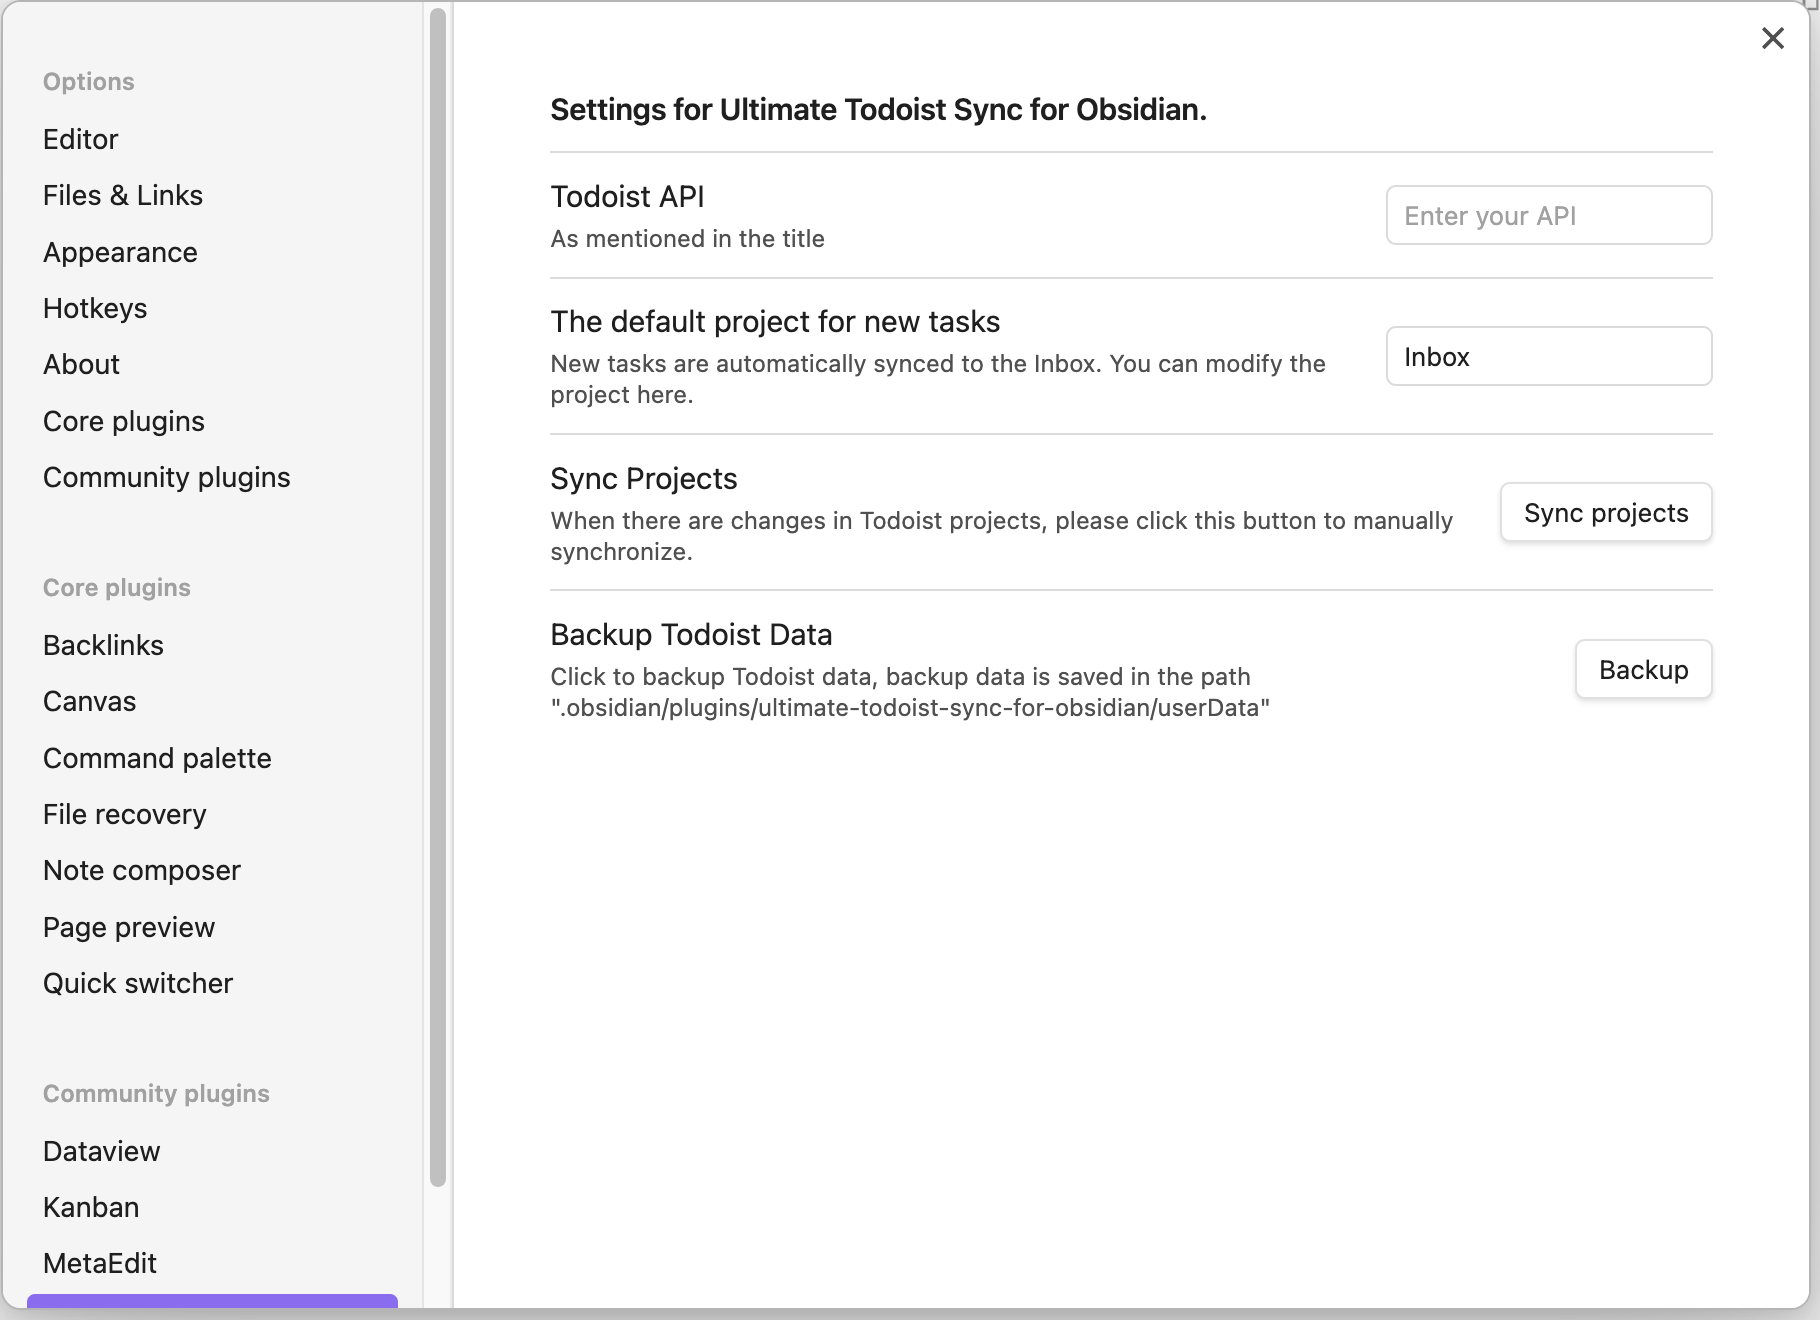
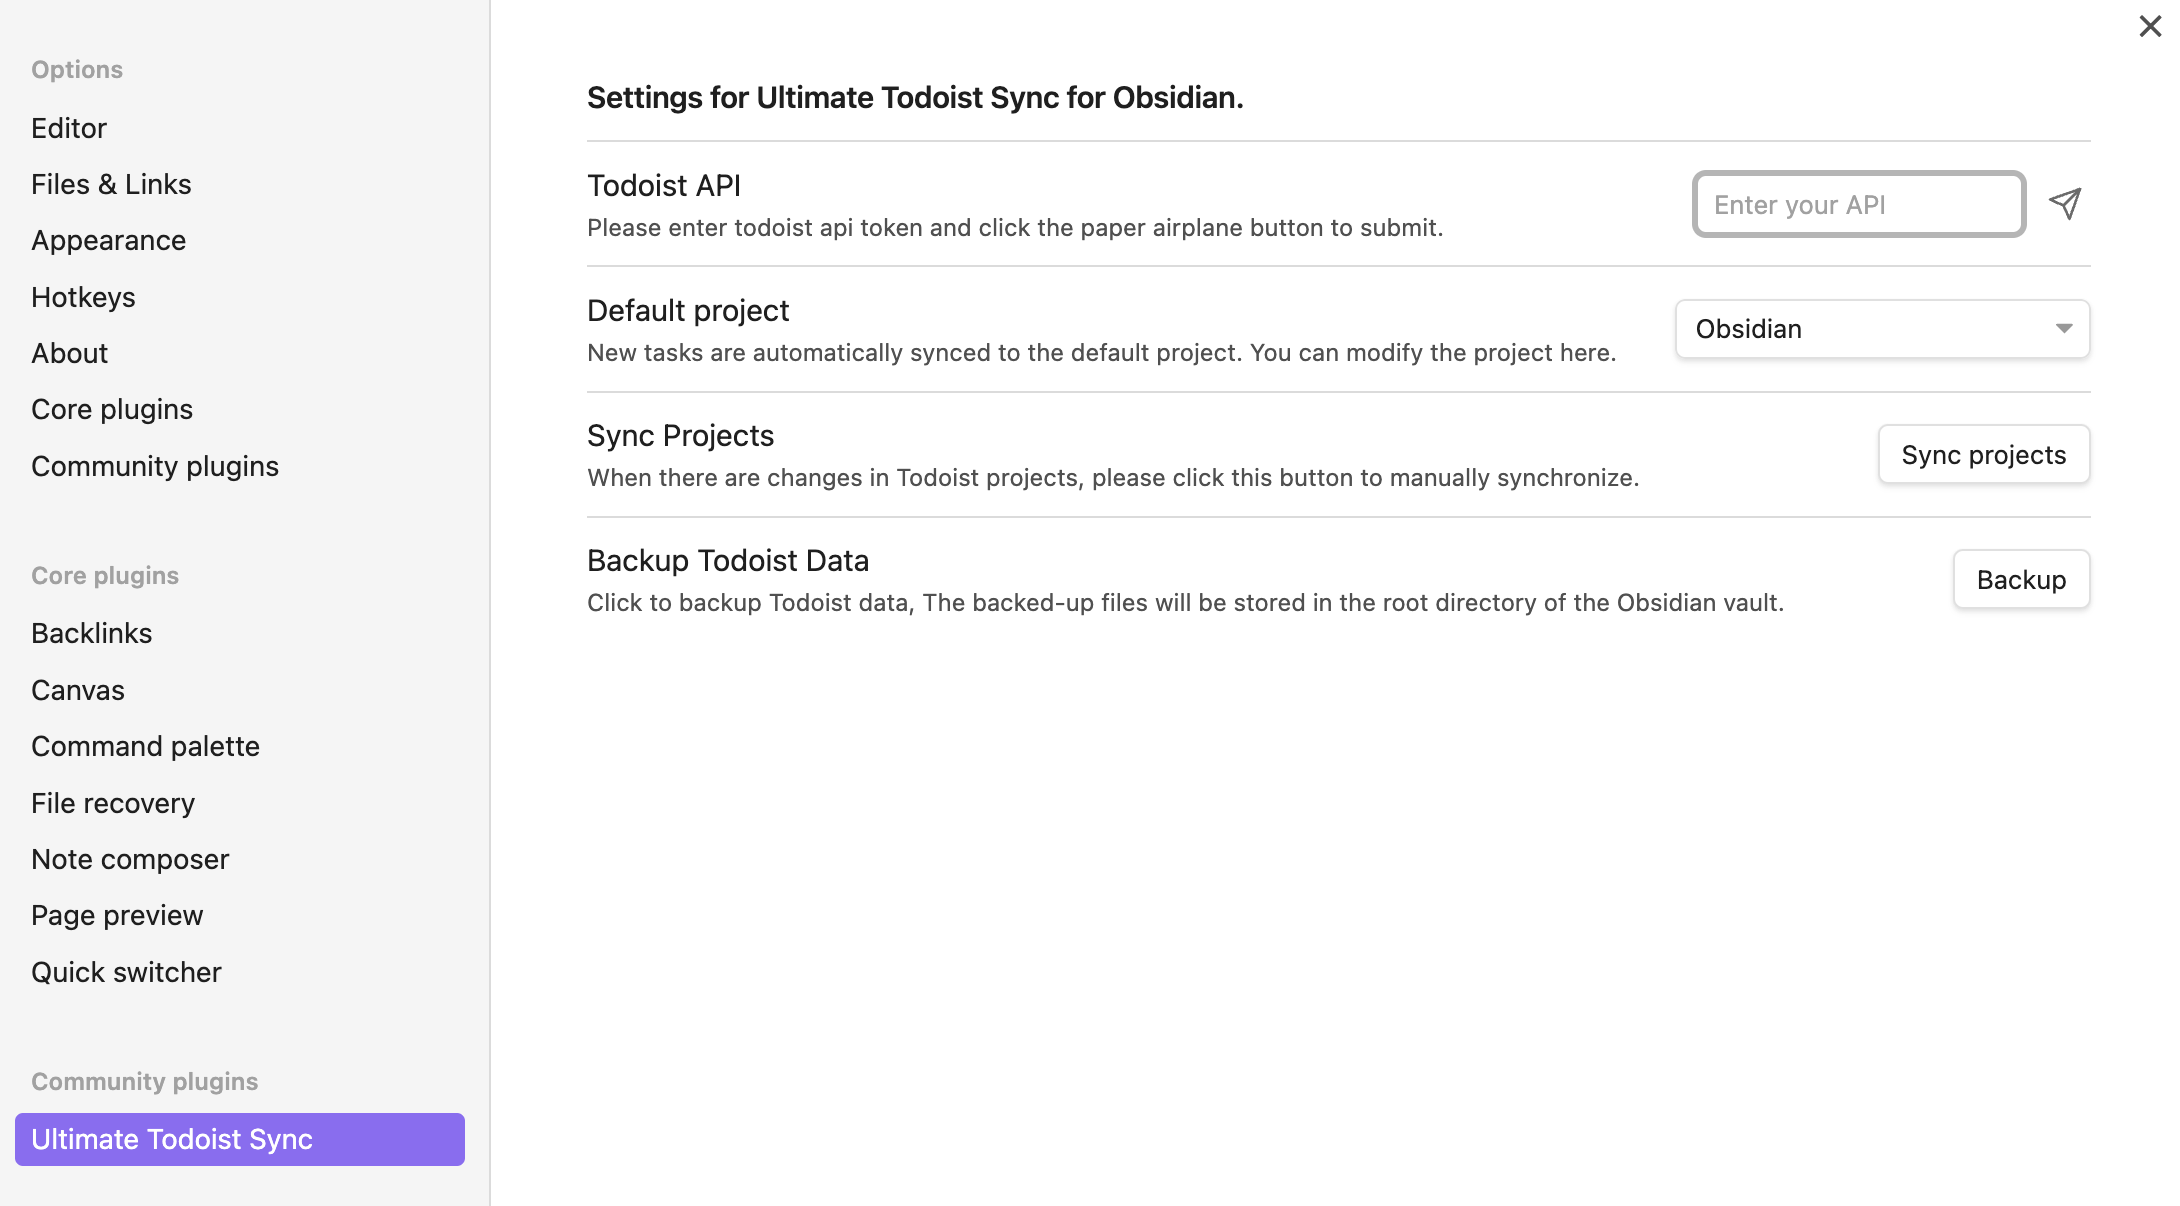
Modify readme

diff --git a/README.md b/README.md
@@ -81,6 +81,15 @@ New tasks will be added to the default project, and you can change the default p
 | #projectTag | New tasks will be added to the default project(For example,  inbox .), and you can change the default project in the settings or use a tag with the same name to specify a particular project. | `- [ ]taskA 🗓2024-02-04  #todoist` will be added to inbox.`- [ ]taskB 🗓2024-02-04 #tag #testProject #todoist` will be added to testProject.|
 | #tag | Note that all tags without a project of the same name are treated as normal tags | `- [ ] task #tagA #tagB #tagC #todoist` |
 
+###  Set a default project for each file separately
+
+The default project in the setting applies to all files. You can set a separate default project for each file using command. 
+
+<img src="/attachment/command-set-default-project-for-file.png" width="500">
+<img src="/attachment/default-project-for-file-modal.png" width="500">
+
+You can see the current file's default project in the status bar at the bottom right corner.
+<img src="/attachment/statusBar.png" width="500">
 
 
 ### Syncing Tasks
